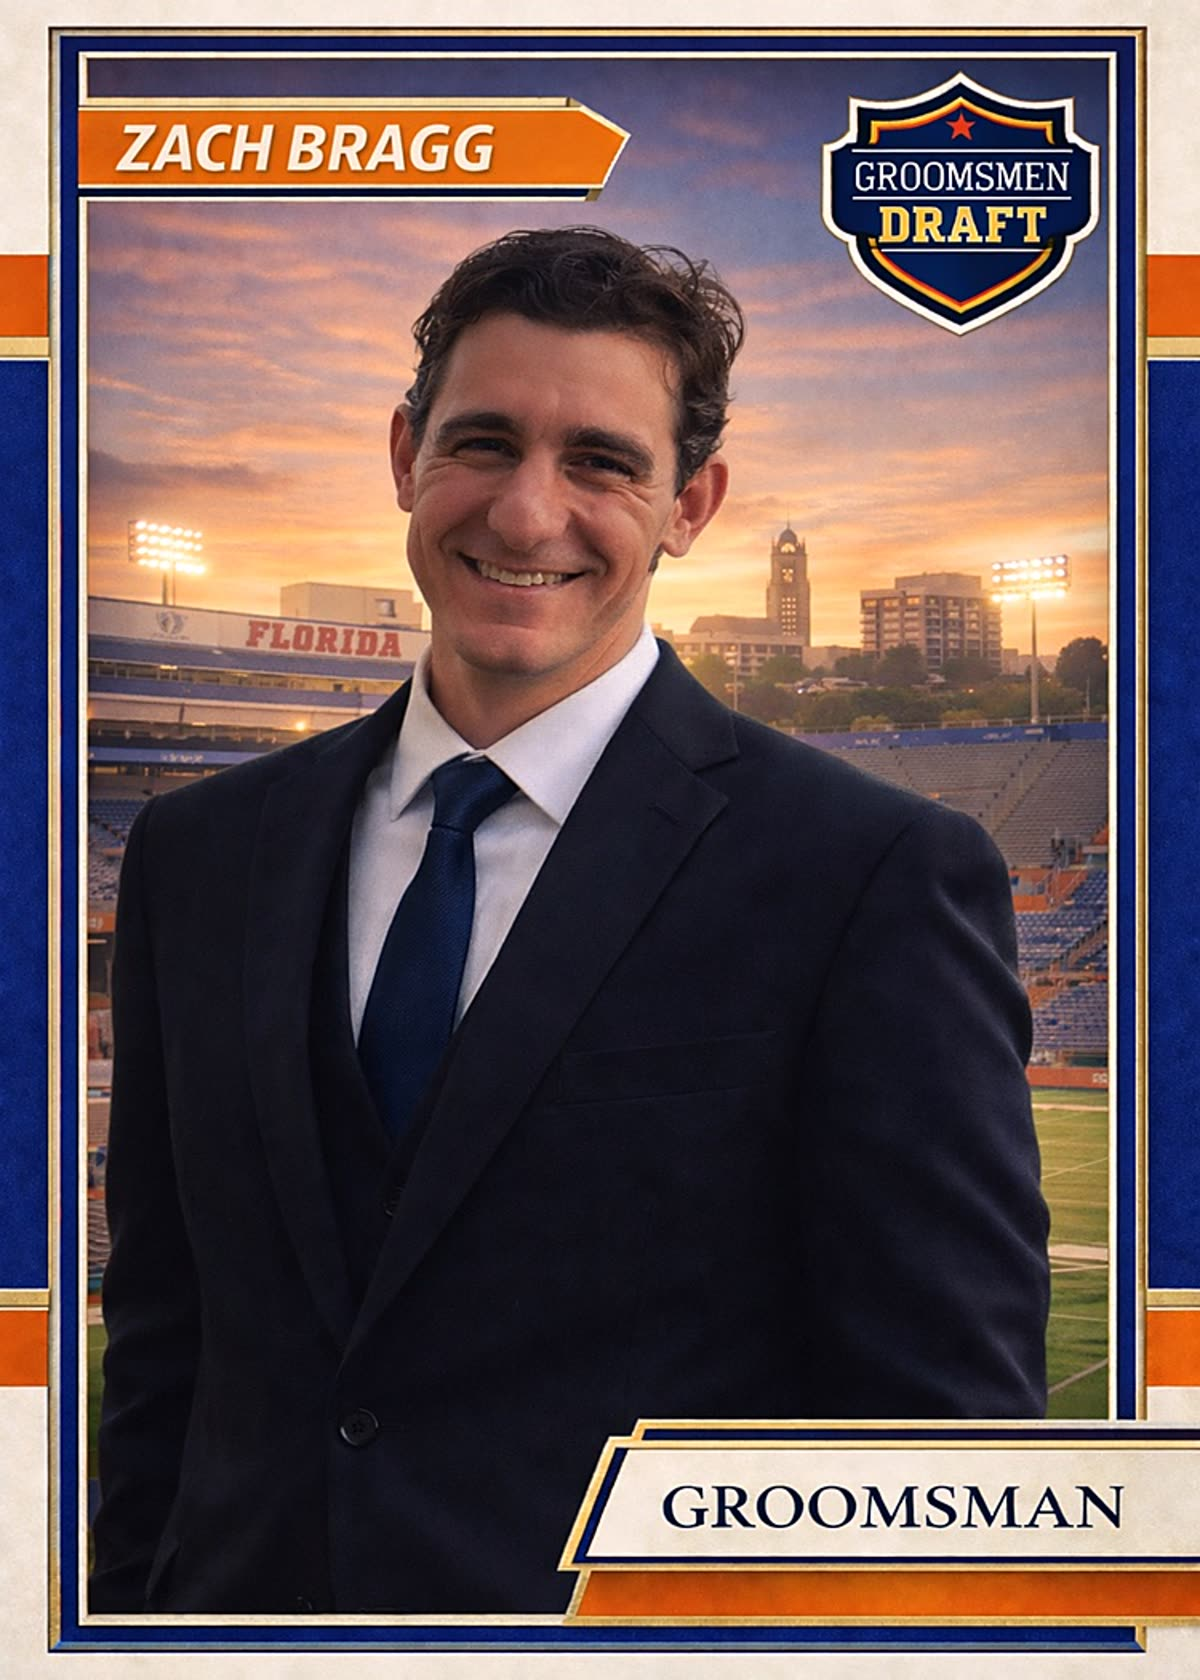
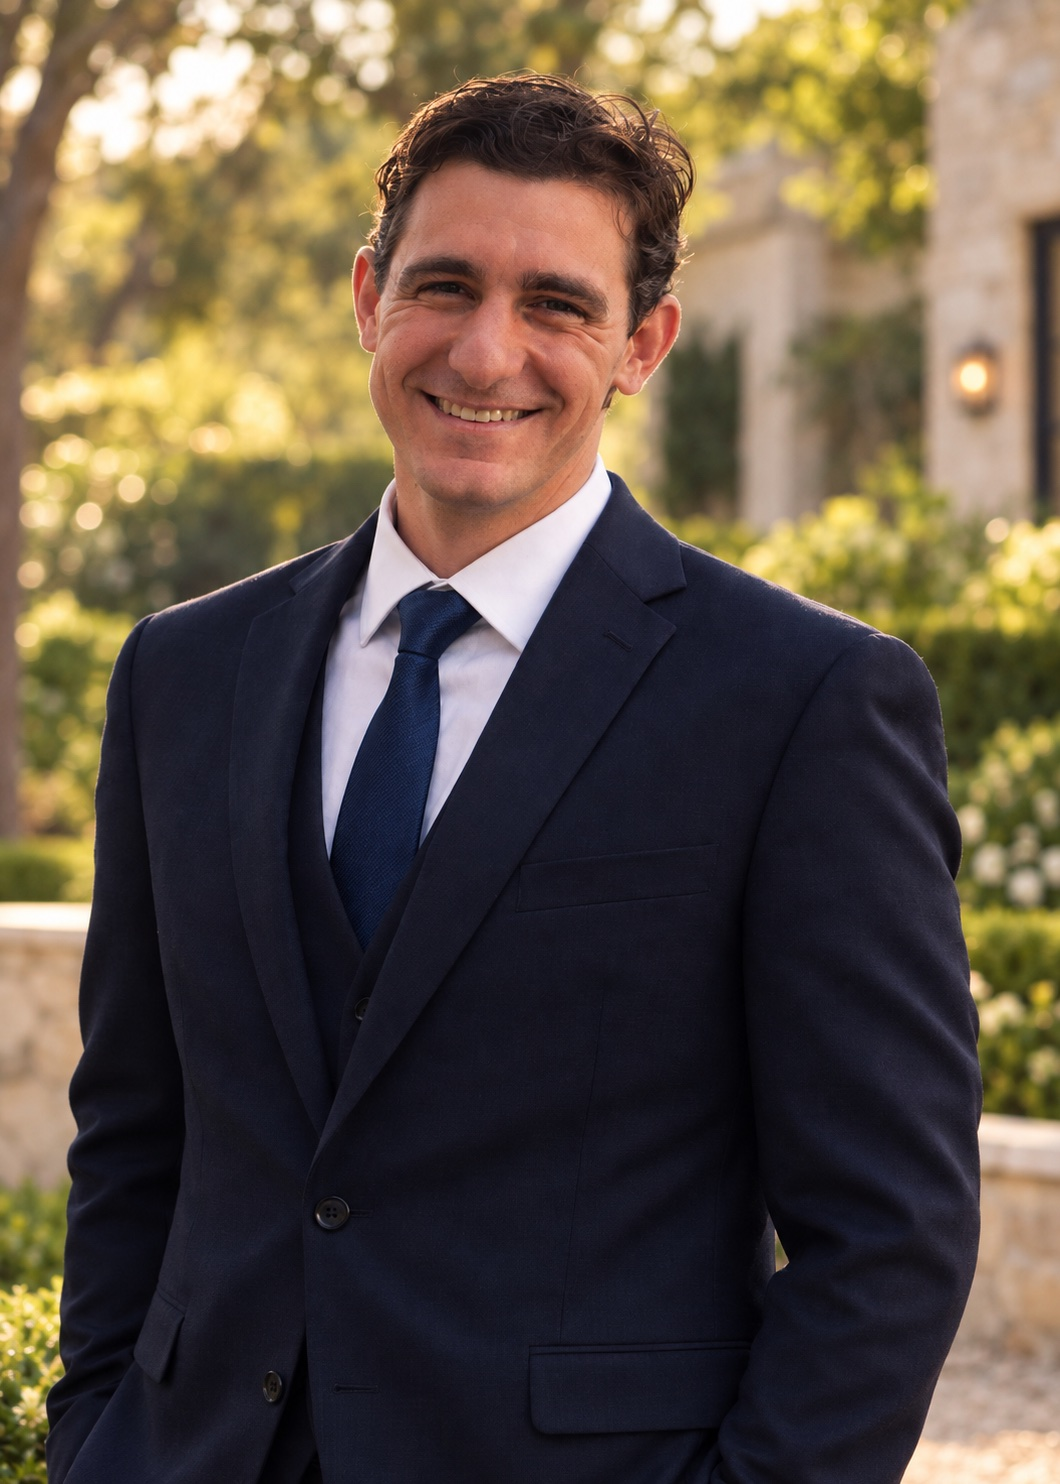
Replace opening pill hint with seal pulse and bottom cue
Remove the floating Tap to open pill on the video intro. Full-screen tap
still opens; a subtle centered seal pulse and editorial bottom cue
(Touch to open) indicate interaction without a button chrome.

Add openCueLabel to wedding config types and refresh Zach Bragg party photo.

diff --git a/app/globals.css b/app/globals.css
@@ -896,71 +896,174 @@
     object-position: center center;
   }
 
-  .video-opening-float-hint {
-    position: absolute;
+  /* Subtle seal radiance on the opening poster (full-screen tap, no pill). */
+  .video-opening-seal-pulse {
     left: 50%;
-    top: 58%;
-    z-index: 2;
+    top: 50%;
+    width: min(22vw, 5.5rem);
+    height: min(22vw, 5.5rem);
     transform: translate(-50%, -50%);
-    padding: 0.45rem 1rem;
-    border-radius: 9999px;
-    border: 1px solid rgb(245 230 190 / 0.55);
-    background: rgb(10 22 40 / 0.72);
-    font-family: var(--font-body), sans-serif;
-    font-size: 0.62rem;
-    font-weight: 600;
-    letter-spacing: 0.32em;
-    text-transform: uppercase;
-    color: #f5e6a8;
-    text-shadow: 0 1px 8px rgb(0 0 0 / 0.65);
-    opacity: 0;
-    pointer-events: none;
-    transition: opacity 400ms ease;
+    border-radius: 50%;
+    border: 1px solid rgb(232 200 114 / 0.35);
     box-shadow:
-      0 0 24px rgb(212 175 55 / 0.35),
-      0 8px 24px rgb(0 0 0 / 0.35);
+      0 0 0 0 rgb(212 175 55 / 0.2),
+      inset 0 0 24px rgb(245 220 140 / 0.12);
+    opacity: 0.85;
+    animation: video-opening-seal-pulse 3.2s ease-in-out infinite;
   }
 
-  .video-opening-float-hint.is-visible {
+  .video-opening-seal-pulse::after {
+    content: "";
+    position: absolute;
+    inset: -18%;
+    border-radius: 50%;
+    border: 1px solid rgb(232 200 114 / 0.18);
+    animation: video-opening-seal-ring 3.2s ease-in-out infinite;
+  }
+
+  .video-opening-seal-pulse.is-lit {
+    animation: video-opening-seal-bloom 520ms ease-out forwards;
+    border-color: rgb(255 215 100 / 0.75);
     opacity: 1;
-    animation: video-opening-hint-float 2.8s ease-in-out infinite;
   }
 
-  .video-opening-float-hint.is-lit {
-    opacity: 1;
-    animation: video-opening-hint-pulse 600ms ease-out forwards;
-    border-color: rgb(255 215 100 / 0.85);
-    box-shadow:
-      0 0 36px rgb(255 215 100 / 0.55),
-      0 8px 28px rgb(0 0 0 / 0.4);
-  }
-
-  @keyframes video-opening-hint-float {
+  @keyframes video-opening-seal-pulse {
     0%,
     100% {
-      transform: translate(-50%, -50%) translateY(0);
+      transform: translate(-50%, -50%) scale(0.96);
+      opacity: 0.55;
     }
 
     50% {
-      transform: translate(-50%, -50%) translateY(-6px);
+      transform: translate(-50%, -50%) scale(1.04);
+      opacity: 0.92;
     }
   }
 
-  @keyframes video-opening-hint-pulse {
+  @keyframes video-opening-seal-ring {
+    0%,
+    100% {
+      transform: scale(0.92);
+      opacity: 0.35;
+    }
+
+    50% {
+      transform: scale(1.08);
+      opacity: 0.65;
+    }
+  }
+
+  @keyframes video-opening-seal-bloom {
     0% {
-      transform: translate(-50%, -50%) scale(0.92);
+      transform: translate(-50%, -50%) scale(0.94);
     }
 
     100% {
-      transform: translate(-50%, -50%) scale(1.04);
+      transform: translate(-50%, -50%) scale(1.12);
+      box-shadow:
+        0 0 48px rgb(255 215 100 / 0.45),
+        inset 0 0 32px rgb(245 220 140 / 0.25);
+    }
+  }
+
+  .video-opening-invite-cue {
+    position: absolute;
+    left: 50%;
+    bottom: calc(1.35rem + env(safe-area-inset-bottom, 0px));
+    z-index: 1;
+    display: flex;
+    flex-direction: column;
+    align-items: center;
+    gap: 0.65rem;
+    transform: translateX(-50%);
+    pointer-events: none;
+    animation: video-opening-cue-in 900ms cubic-bezier(0.22, 1, 0.36, 1) 400ms
+      both;
+  }
+
+  .video-opening-invite-cue-mark {
+    display: flex;
+    align-items: center;
+    gap: 0.45rem;
+    width: min(42vw, 9rem);
+    opacity: 0.85;
+  }
+
+  .video-opening-invite-cue-line {
+    flex: 1;
+    height: 1px;
+    background: linear-gradient(
+      90deg,
+      transparent 0%,
+      rgb(232 200 114 / 0.15) 12%,
+      rgb(232 200 114 / 0.65) 50%,
+      rgb(232 200 114 / 0.15) 88%,
+      transparent 100%
+    );
+  }
+
+  .video-opening-invite-cue-dot {
+    width: 4px;
+    height: 4px;
+    border-radius: 50%;
+    background: rgb(232 200 114 / 0.9);
+    box-shadow: 0 0 10px rgb(212 175 55 / 0.55);
+    animation: video-opening-cue-dot 2.4s ease-in-out infinite;
+  }
+
+  .video-opening-invite-cue-text {
+    font-family: var(--font-body), sans-serif;
+    font-size: clamp(0.58rem, 0.52rem + 0.28vw, 0.68rem);
+    font-weight: 500;
+    letter-spacing: 0.38em;
+    text-transform: uppercase;
+    color: rgb(245 230 190 / 0.88);
+    text-shadow: 0 1px 12px rgb(0 0 0 / 0.55);
+  }
+
+  .video-opening-invite-cue.is-lit .video-opening-invite-cue-text {
+    color: #ffd875;
+    letter-spacing: 0.42em;
+    transition: color 280ms ease, letter-spacing 280ms ease;
+  }
+
+  @keyframes video-opening-cue-in {
+    from {
+      opacity: 0;
+      transform: translateX(-50%) translateY(8px);
+    }
+
+    to {
+      opacity: 1;
+      transform: translateX(-50%) translateY(0);
+    }
+  }
+
+  @keyframes video-opening-cue-dot {
+    0%,
+    100% {
+      opacity: 0.55;
+      transform: scale(0.85);
+    }
+
+    50% {
+      opacity: 1;
+      transform: scale(1.15);
     }
   }
 
   @media (prefers-reduced-motion: reduce) {
     .video-opening-fullscreen-exit,
-    .video-opening-float-hint.is-visible,
-    .video-opening-float-hint.is-lit {
+    .video-opening-seal-pulse,
+    .video-opening-seal-pulse::after,
+    .video-opening-invite-cue,
+    .video-opening-invite-cue-dot {
       animation: none;
+    }
+
+    .video-opening-invite-cue {
+      opacity: 1;
+      transform: translateX(-50%);
     }
   }
 

diff --git a/components/entry/intro/VideoOpeningIntro.tsx b/components/entry/intro/VideoOpeningIntro.tsx
@@ -14,7 +14,7 @@ interface VideoOpeningIntroProps {
   videoRef: React.RefObject<HTMLVideoElement | null>;
 }
 
-/** Full-screen opening animation with a floating tap hint near the seal. */
+/** Full-screen opening — tap anywhere; subtle seal pulse + bottom cue (no pill button). */
 export function VideoOpeningIntro({
   phase,
   reduceMotion,
@@ -27,6 +27,7 @@ export function VideoOpeningIntro({
     phase === "glowing" || phase === "opening" || phase === "opened";
   const exiting = phase === "opening" || phase === "opened";
   const showPoster = phase === "closed" || phase === "activating";
+  const showCue = interactive && showPoster && !playbackStarted;
 
   return (
     <div
@@ -42,6 +43,16 @@ export function VideoOpeningIntro({
           alt=""
           className="video-opening-media absolute inset-0 z-[1]"
           draggable={false}
+        />
+      ) : null}
+
+      {showCue && !reduceMotion ? (
+        <div
+          className={cn(
+            "video-opening-seal-pulse pointer-events-none absolute z-[2]",
+            glowing && "is-lit",
+          )}
+          aria-hidden
         />
       ) : null}
 
@@ -73,16 +84,23 @@ export function VideoOpeningIntro({
           interactive ? "cursor-pointer" : "pointer-events-none",
         )}
       >
-        <span
-          className={cn(
-            "video-opening-float-hint",
-            glowing && "is-lit",
-            interactive && showPoster && "is-visible",
-            playbackStarted && "opacity-0",
-          )}
-        >
-          {wedding.entry.tapHint}
-        </span>
+        {showCue ? (
+          <div
+            className={cn(
+              "video-opening-invite-cue",
+              glowing && "is-lit",
+            )}
+            aria-hidden
+          >
+            <span className="video-opening-invite-cue-mark">
+              <span className="video-opening-invite-cue-line" />
+              <span className="video-opening-invite-cue-dot" />
+            </span>
+            <span className="video-opening-invite-cue-text">
+              {wedding.entry.openCueLabel}
+            </span>
+          </div>
+        ) : null}
       </button>
     </div>
   );

diff --git a/data/wedding.ts b/data/wedding.ts
@@ -51,6 +51,8 @@ export const wedding: WeddingConfig = {
     inviteNames: "Bright & Lexi",
     inviteSubline: "May 15, 2027 · Bella Cosa · Lake Wales, Florida",
     tapHint: "Tap to open",
+    /** Minimal on-screen cue on the video opening (full-screen tap still opens). */
+    openCueLabel: "Touch to open",
     openingHint: "Opening your invitation",
   },
   closing: {

diff --git a/data/types.ts b/data/types.ts
@@ -93,6 +93,8 @@ export interface WeddingConfig {
     inviteNames: string;
     inviteSubline: string;
     tapHint: string;
+    /** Minimal label on the video opening (full-screen tap). */
+    openCueLabel: string;
     openingHint: string;
   };
   closing: {
